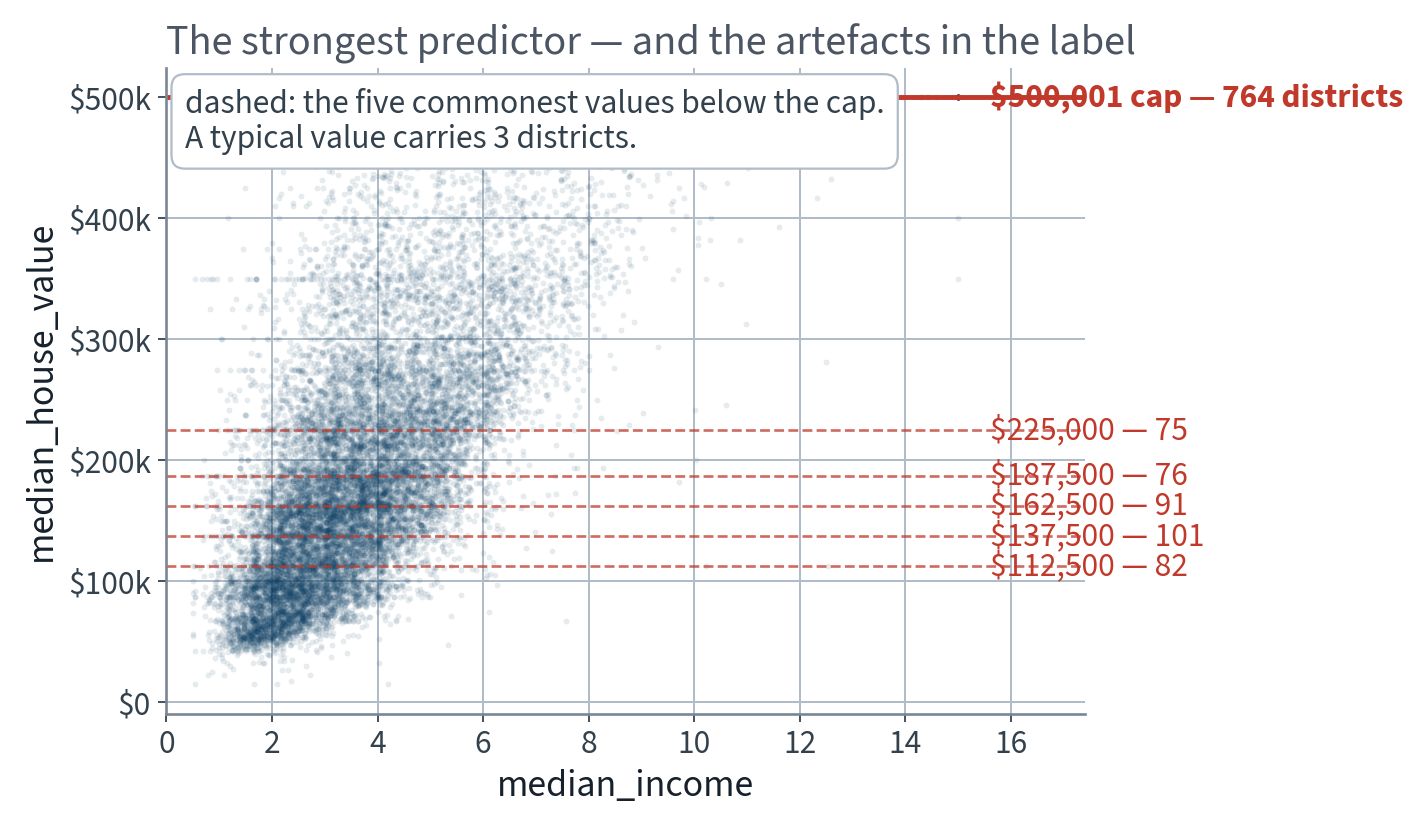
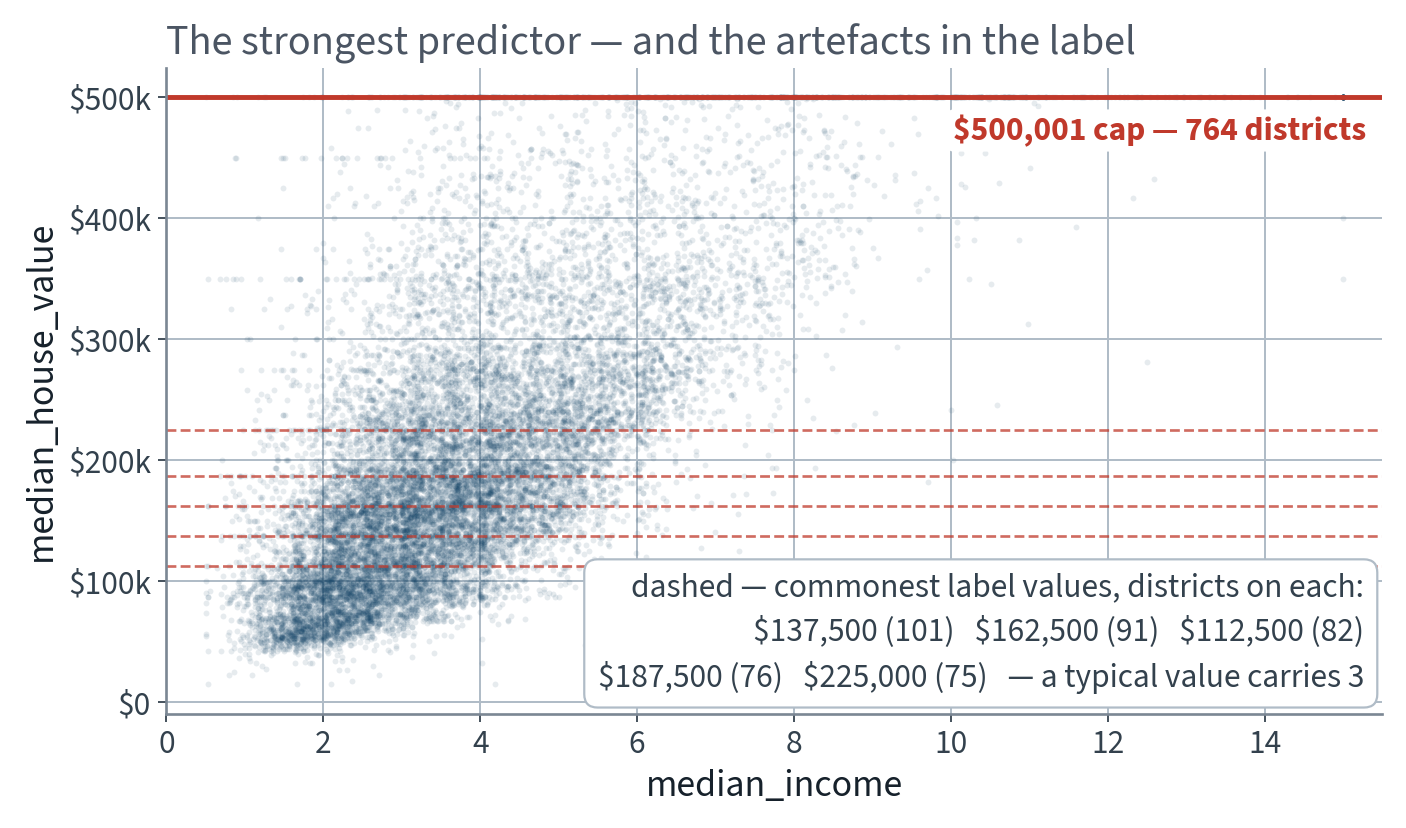
The KaTeX currency trap, in matplotlib, and the label layout it broke
Two dollar signs in one matplotlib string are mathtext exactly as they are maths
to KaTeX: "$187,500 (76)   $225,000 (75)" rendered as an italic equation reading
"187, 500(76)225, 000". This is TRICKS §9.1 in the other renderer, and it had
never bitten only because every previous label carried a single amount.
text.parse_math is now off for the whole script — no figure in this course uses
mathtext, so the trap has no upside.

The income-vs-value annotations are laid out properly: the five stripes are
$25,000 apart and a label on each one overlapped its neighbours, so they are
listed once in the empty low-price/high-income corner instead. The axis goes
back to the data range (I had stretched it to 17.4 to park labels in the margin,
which spent 45% of the plot on white space).

Leaving the d-*.svg diagram edits in the working tree alone — those are the
typography pass's.

diff --git a/tools/make_figures.py b/tools/make_figures.py
@@ -111,6 +111,11 @@ def setup():
         "legend.fontsize": TICK,
         "figure.autolayout": False,
         "svg.hashsalt": "aiml-course",
+        # TRICKS §9.1, in the other renderer: two dollar signs in one string
+        # are mathtext to matplotlib exactly as they are maths to KaTeX, so
+        # "$137,500 (101)  $162,500 (91)" renders as an italic equation. No
+        # figure in this course uses mathtext; turn the trap off entirely.
+        "text.parse_math": False,
     })
     # a missing font is a silent revert to DejaVu, so fail loudly instead
     resolved = font_manager.findfont("Source Sans 3", fallback_to_default=False)
@@ -379,21 +384,30 @@ def fig_income_value(train, clusters):
     ax.set_xlabel("median_income"); ax.set_ylabel("median_house_value")
     ax.yaxis.set_major_formatter(usd)
     ax.set_title("The strongest predictor — and the artefacts in the label")
-    ax.set_xlim(0, 17.4)                     # room for the labels, off the data
+    ax.set_xlim(0, 15.5)
     cap, n_cap = clusters["cap"], clusters["cap_count"]
     ax.axhline(cap, color=ACCENT, lw=2.2)
-    ax.text(15.6, cap, f"${cap:,.0f} cap — {n_cap} districts", va="center",
-            ha="left", fontsize=SMALL, color=ACCENT, fontweight="bold")
-    for value, count in clusters["top"]:
+    ax.text(15.3, cap - 14000, f"${cap:,.0f} cap — {n_cap} districts",
+            va="top", ha="right", fontsize=SMALL, color=ACCENT,
+            fontweight="bold", zorder=5,
+            bbox=dict(boxstyle="round,pad=0.15", facecolor="white",
+                      edgecolor="none"))
+    for value, _ in clusters["top"]:
         ax.axhline(value, color=ACCENT, lw=1.2, ls="--", alpha=0.75)
-        ax.text(15.6, value, f"${value:,.0f} — {count}", va="center", ha="left",
-                fontsize=SMALL, color=ACCENT)
-    ax.text(0.02, 0.97, f"dashed: the five commonest values below the cap.\n"
-                        f"A typical value carries "
-                        f"{clusters['background_count']:.0f} districts.",
-            transform=ax.transAxes, va="top", ha="left", fontsize=SMALL,
-            color="#33414d", bbox=dict(boxstyle="round,pad=0.4",
-                                       facecolor="white", edgecolor=RULE))
+    # the five stripes are $25,000 apart, so a label on each one overlaps its
+    # neighbours: list them once instead, in the empty low-price/high-income
+    # corner
+    listing = "   ".join(f"${v:,.0f} ({c})" for v, c in clusters["top"][:3])
+    listing2 = "   ".join(f"${v:,.0f} ({c})" for v, c in clusters["top"][3:])
+    ax.text(0.985, 0.03,
+            f"dashed — commonest label values, districts on each:\n"
+            f"{listing}\n{listing2}"
+            f"   — a typical value carries "
+            f"{clusters['background_count']:.0f}",
+            transform=ax.transAxes, va="bottom", ha="right", fontsize=SMALL,
+            color="#33414d", linespacing=1.5,
+            bbox=dict(boxstyle="round,pad=0.4", facecolor="white",
+                      edgecolor=RULE))
     fig.tight_layout()
     return save(fig, "l1-income-value", raster=True)
 
